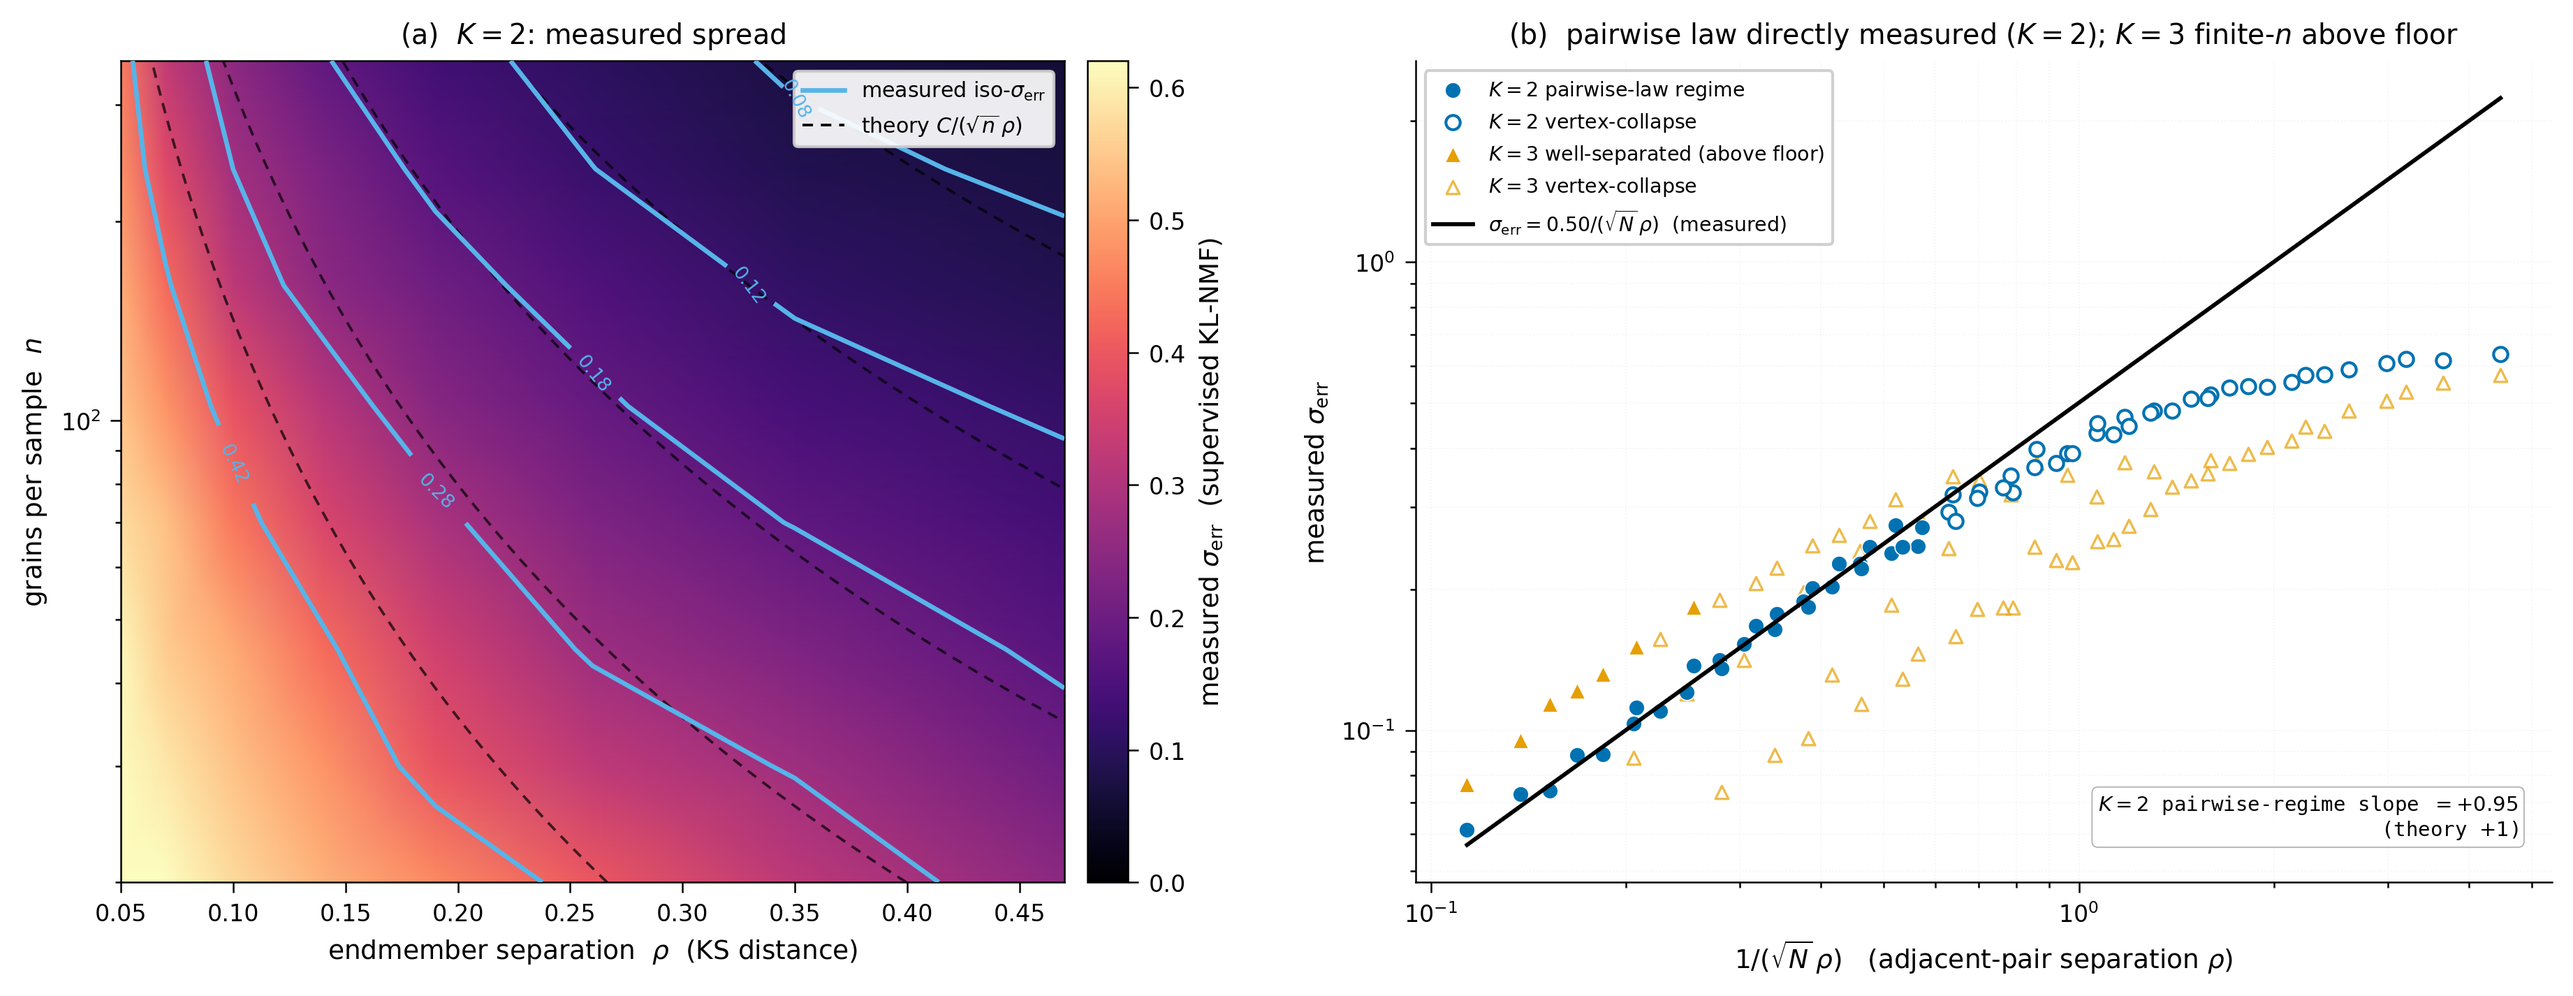
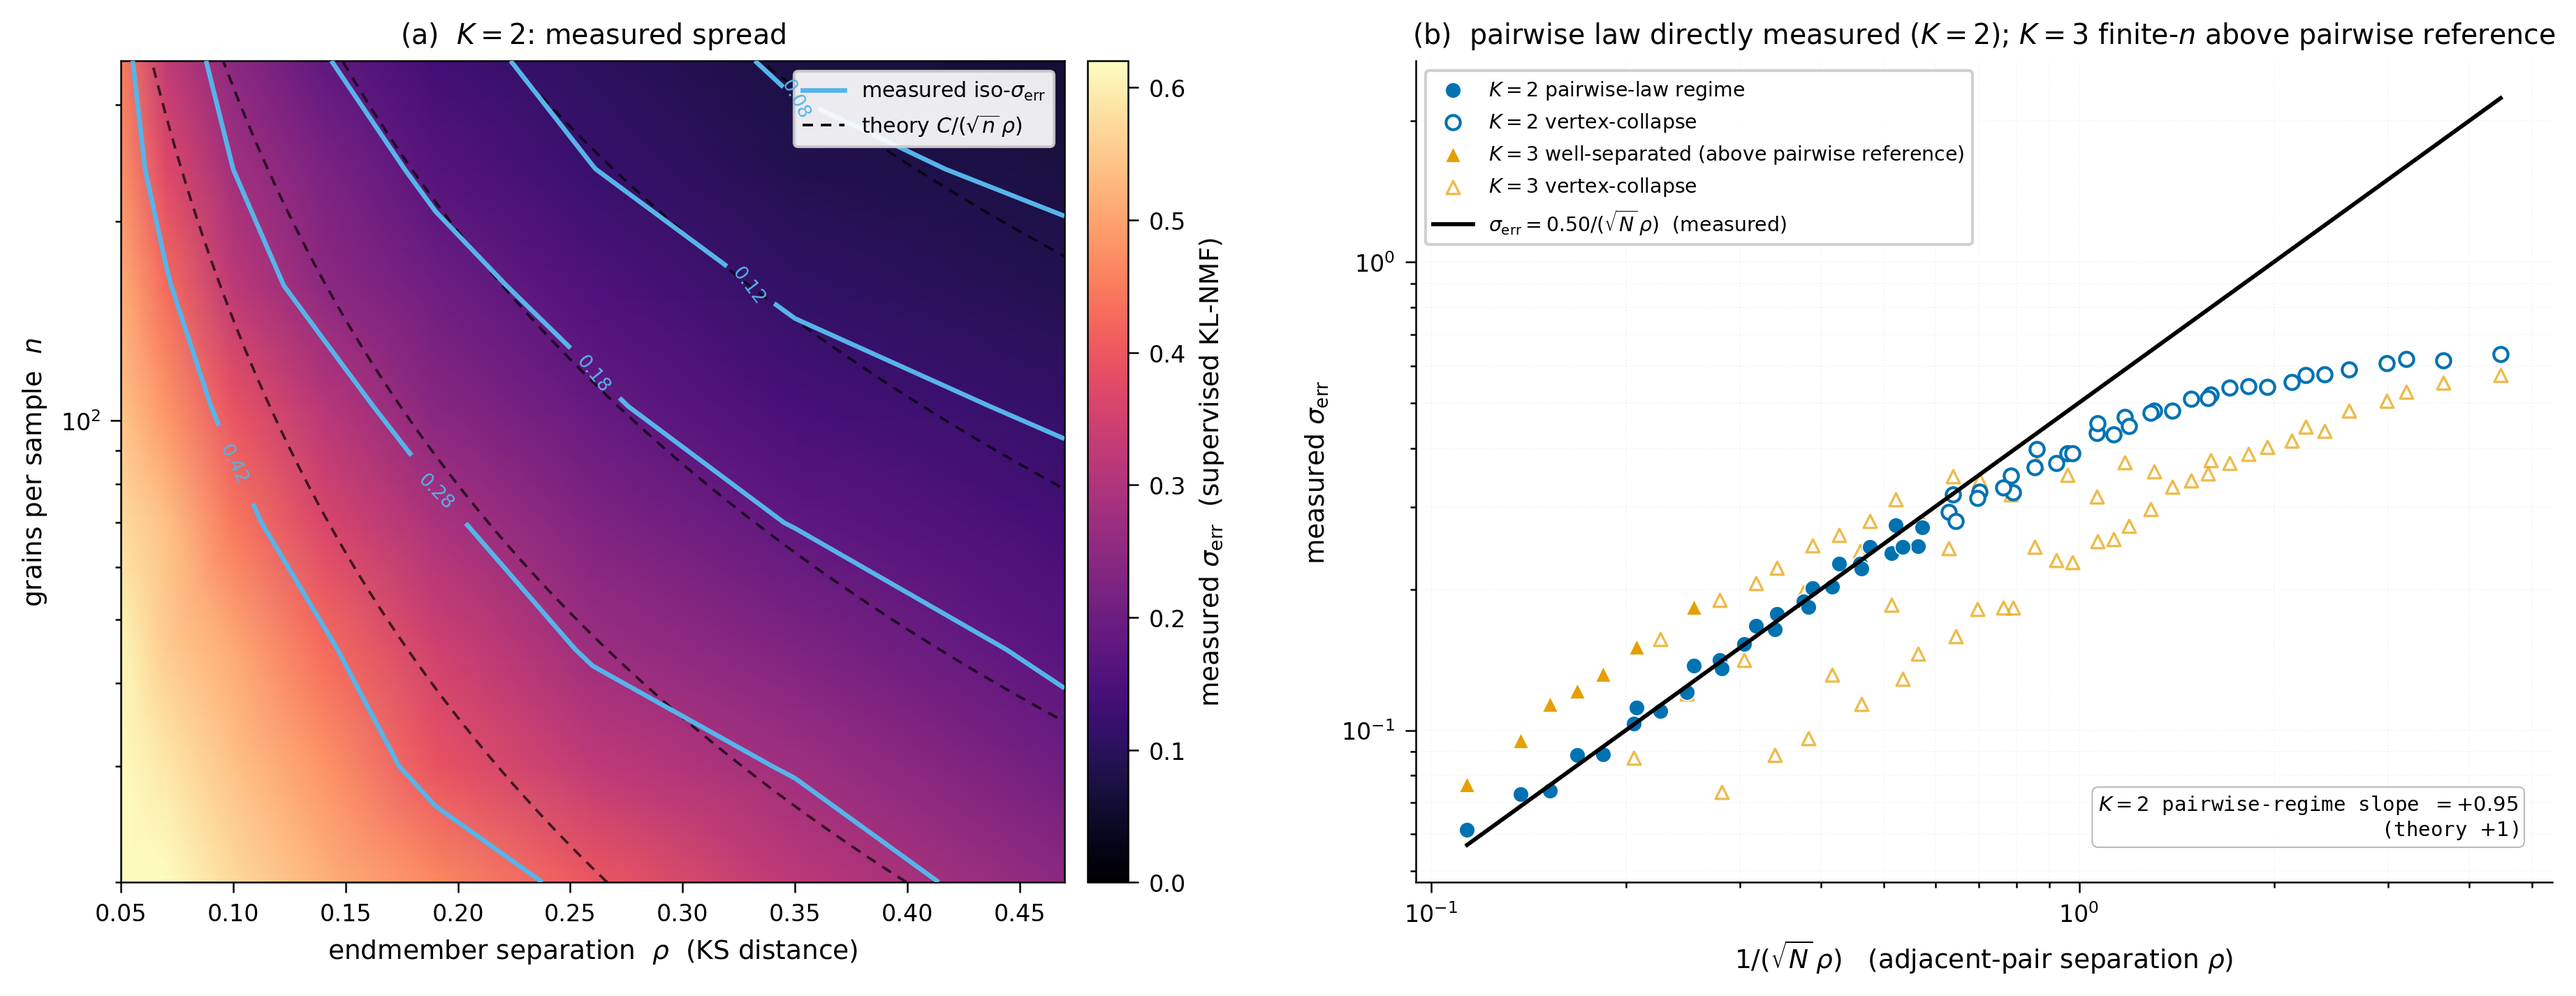
Fig2 labels: floor -> pairwise reference

diff --git a/fig_sigma_err_phase.py b/fig_sigma_err_phase.py
@@ -138,7 +138,7 @@ def panel_B(ax, cells, C):
     x3 = np.array([xof(c) for c in k3]); y3 = np.array([c["sigma_err"] for c in k3])
     lan3 = np.array([c["regime"] == "LAN" for c in k3])
     ax.scatter(x3[lan3], y3[lan3], s=30, color=OI["orange"], marker="^", edgecolor="white",
-               lw=0.4, zorder=4, label="$K=3$ well-separated (above floor)")
+               lw=0.4, zorder=4, label="$K=3$ well-separated (above pairwise reference)")
     ax.scatter(x3[~lan3], y3[~lan3], s=20, facecolor="white", edgecolor=OI["orange"],
                marker="^", lw=0.8, zorder=2, alpha=0.7, label="$K=3$ vertex-collapse")
     # the measured pairwise law
@@ -151,7 +151,7 @@ def panel_B(ax, cells, C):
     ax.set_xscale("log"); ax.set_yscale("log")
     ax.set_xlabel(r"$1/(\sqrt{N}\,\rho)$   (adjacent-pair separation $\rho$)")
     ax.set_ylabel(r"measured $\sigma_{\mathrm{err}}$")
-    ax.set_title(r"(b)  pairwise law directly measured ($K{=}2$); $K{=}3$ finite-$n$ above floor")
+    ax.set_title(r"(b)  pairwise law directly measured ($K{=}2$); $K{=}3$ finite-$n$ above pairwise reference")
     ax.grid(True, which="both", ls=":", lw=0.4, alpha=0.15)
     for sp in ("top", "right"):
         ax.spines[sp].set_visible(False)
